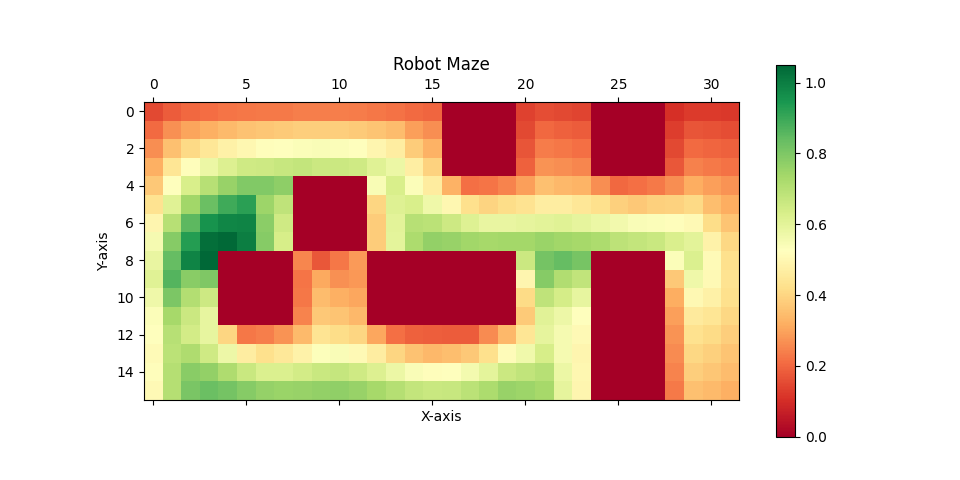
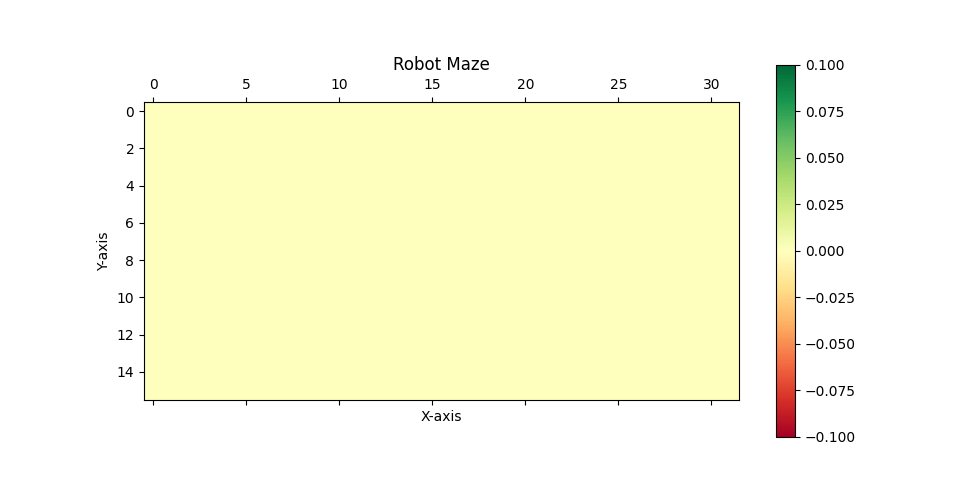
particle filter In progress

diff --git a/scripts/particle_filter.py b/scripts/particle_filter.py
@@ -90,6 +90,7 @@ MAP =  [[1, 1, 1, 1, 1, 1, 1, 1, 1, 1, 1, 1, 1, 1, 1, 1, 0, 0, 0, 0, 1, 1, 1, 1,
 
 
 PROB_MAP = copy.deepcopy(MAP)
+PARTICLE_MAP = copy.deepcopy(MAP)
 ROW_LEN = len(MAP[0])  # 10 buffer of two cols, number of columns
 COL_LEN = len(MAP)     # 6  buffer of two rows, number of rows
 CONSTANT = 7.62        # to map the list to 12 inch grids, 12 inch is read as 30.48 cm
@@ -125,7 +126,7 @@ def cosine_distance(a, b):
         
     calculates cosine similarity
     """
-    return dot(a, b) / (norm(a) * norm(b))
+    return np.dot(a, b)/(norm(a) * norm(b))
 
 
 def manhattan_distance(a, b):
@@ -192,10 +193,12 @@ class HistMap:
         self.PROB_MAP = np.array(PROB_MAP)
         self.COLS = len(self.MAP[0])
         self.ROWS = len(self.MAP)
+        self.PARTICLE_MAP = np.zeros((self.ROWS, self.COLS)) 
         self.num_particles = 120
         self.kernel = [[0.2 , 0.25, 0.2 ],
                        [0.2 , 1   , 0.25],
                        [0.25, 0   , 0.25]]
+        self.threshold = 0.95
     
     
     def add_rover(self, rover):
@@ -203,11 +206,17 @@ class HistMap:
         self.rover = rover
         
         
-    def normalize_probmap(self):
+    def normalize_probmap(self, particle=0):
         """ normalize the probability map """
-        probmax, probmin = self.PROB_MAP.max(), self.PROB_MAP.min()
-        mask = (self.PROB_MAP != 0)
-        np.putmask(self.PROB_MAP, mask, (self.PROB_MAP - probmin) / (probmax - probmin) + 0.05)
+        if not particle:
+            probmax, probmin = self.PROB_MAP.max(), self.PROB_MAP.min()
+            mask = (self.PROB_MAP != 0)
+            np.putmask(self.PROB_MAP, mask, (self.PROB_MAP - probmin) / (probmax - probmin) + 0.05)
+        else:
+            probmax, probmin = self.PARTICLE_MAP.max(), self.PARTICLE_MAP.min()
+            mask = (self.PARTICLE_MAP != 0)
+            np.putmask(self.PARTICLE_MAP, mask, (self.PARTICLE_MAP - probmin) / (probmax - probmin) + 0.05)
+            
         # self.PROB_MAP[self.PROB_MAP != 0] = (self.PROB_MAP - probmin) / (probmax - probmin)
     
     
@@ -244,29 +253,39 @@ class HistMap:
                     if math.floor(prob) >= 1:
                         for i in range(math.floor(prob)):
                             self.particle_placements[r, j] = self.PROB_MAP[r][j]
+                        
                             
     def place_rand_particles(self):
         """ 
         places particles randomly upto an N amount, this will help speed up the localization process
         """
-        placed = 0
-        self.particle_placements = {}
-        while placed <= self.num_particles:
+        # self.particle_placements = {}
+        while len(self.particle_placements) <= self.num_particles:
             coor = [np.random.randint(0, self.ROWS), np.random.randint(0, self.COLS)]
             while self.PROB_MAP[coor[0]][coor[1]] == 0:
                 coor = [np.random.randint(0, self.ROWS), np.random.randint(0, self.COLS)]
 
             self.particle_placements[coor[0], coor[1]] = self.PROB_MAP[coor[0]][coor[1]] + 0.50
-            placed += 1
-
-
-
+            
+    
+    def particle_thresholding(self):
+        """ decides the threshold for each particle and removes them """
+        temp_dict_placements = copy.deepcopy(self.particle_placements)
+        temp_dict_readings = copy.deepcopy(self.particle_readings)        
+        for k, v in self.particle_placements.items():
+            if v < self.threshold:
+                temp_dict_placements.pop(k)
+                temp_dict_readings.pop(k)
                 
+                
+        self.particle_readings = temp_dict_readings
+        self.particle_placements = temp_dict_placements
+        
+           
     def measure_particles(self):
         """
         for every particle, four readings will be taken and the readings will be compared to the actual robot readings
         """
-        print(len(self.particle_placements))
         for i, particle in enumerate(self.particle_placements.items()):
             guess = [None, None, None, None, None, None]   # the guessed distances of each particle   N, E, S, W
 
@@ -364,18 +383,34 @@ class HistMap:
             try: self.PROB_MAP[k[0]][k[1]] += self.PROB_MAP[k[0] + 1][k[1] + 2] * self.kernel[2][2]
             except: pass
             
+        
+    def update_particle_map(self):
+        """ 
+        set a threshold for how many particles they have there 
+        """
+        self.PARTICLE_MAP = np.zeros((self.ROWS, self.COLS))
+        for k, v in self.particle_readings.items():
+            similarity = cosine_distance(np.array(v), np.array(self.rover.readings))
+            if float(similarity) > self.threshold:
+                self.PARTICLE_MAP[k[0]][k[1]] += 1
+                
+            
             
             
    
     
-    def plot_probs(self):
+    def plot_probs(self, use_particle_map=False):
         """ 
         plot MAP
         """
         # print(self.PROB_MAP)
         # plt.imshow(np.random.random((50,50)))
-
-        plt.matshow(self.PROB_MAP, cmap="RdYlGn")
+        
+        if not use_particle_map:
+            plt.matshow(self.PROB_MAP, cmap="RdYlGn")
+        if use_particle_map:
+            plt.matshow(self.PARTICLE_MAP, cmap="RdYlGn")
+            
         plt.colorbar()
         plt.title("Robot Maze")
         plt.xlabel('X-axis')
@@ -392,23 +427,22 @@ if __name__ == '__main__':
     hist.add_rover(rover)
     hist.place_init_particles()
     hist.measure_particles()
-    hist.normalize_probmap()
+    hist.normalize_probmap(False)
+    threshold = 0.85
+    use_particle_map = True
 
     while True:
         start = time.time()
+        print(f"particle placements: {len(hist.particle_placements)} particle readings: {len(hist.particle_readings)}")
         rover.update_directions()
-        hist.update_prob_map()
-        hist.normalize_probmap()
+        hist.update_particle_map()
+        # hist.update_prob_map()
+        # hist.normalize_probmap(use_particle_map)
         hist.place_rand_particles()
-    
-    
-        # print(f'how many openings in the map: {hist.map_openings}')
-        # print(f'Probabiliities of the map: {hist.probabilities}')
-        # print(f'Length of the MAP, i.e. number of rows: {len(MAP)}')
-        # print(f'Length of the MAP row, i.e. number of cols: {len(MAP[0])}')
-        # print(f'this is the particle placements{hist.particle_placements}')
+        hist.measure_particles()
+        hist.particle_thresholding()   
+        hist.plot_probs(use_particle_map)
         
-        hist.plot_probs()
         # time.sleep(0.2)
         end = time.time()
         print(f"total time: {end-start}s")    
